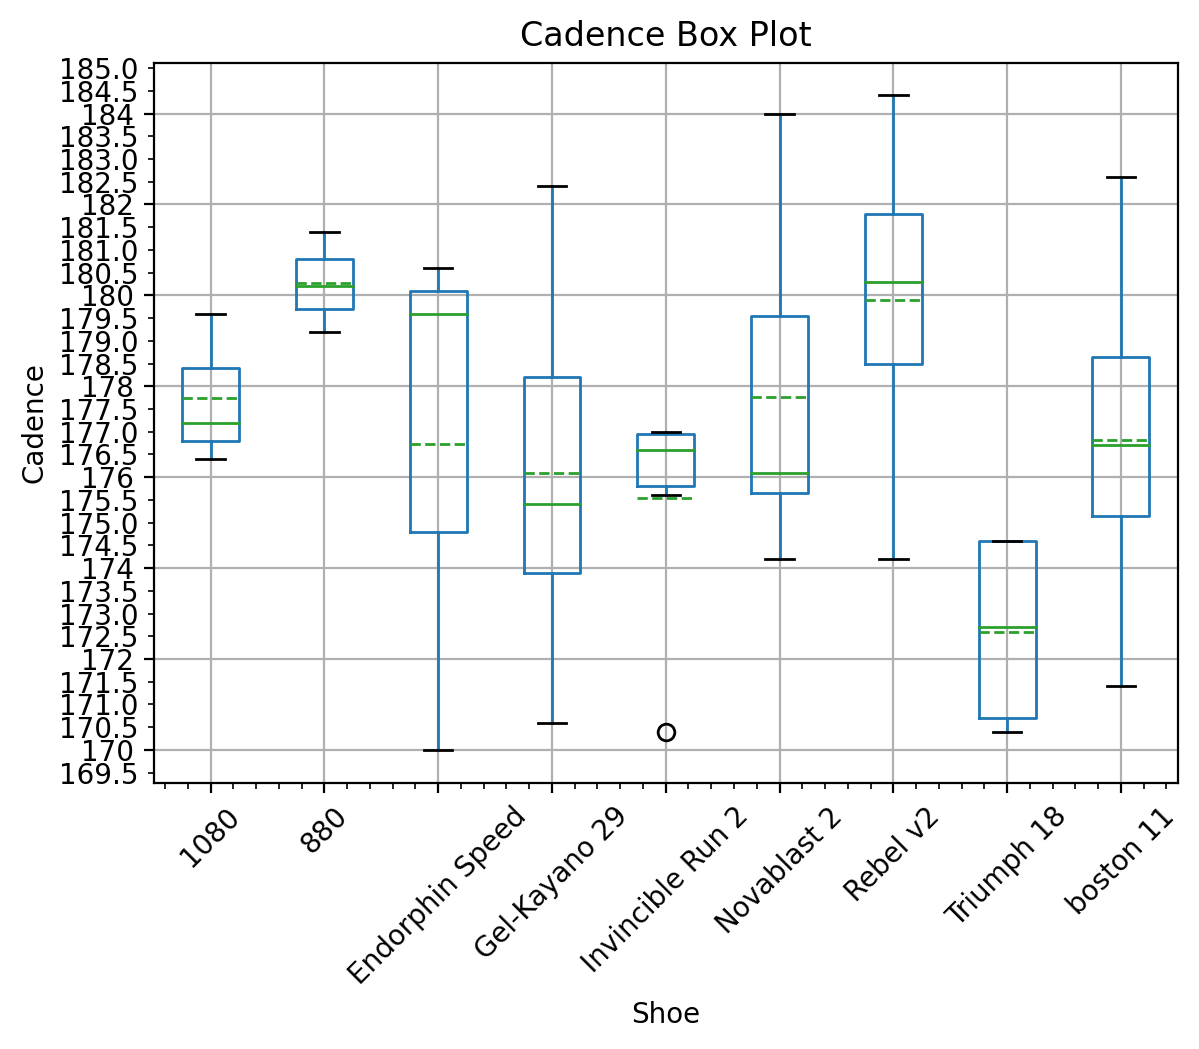
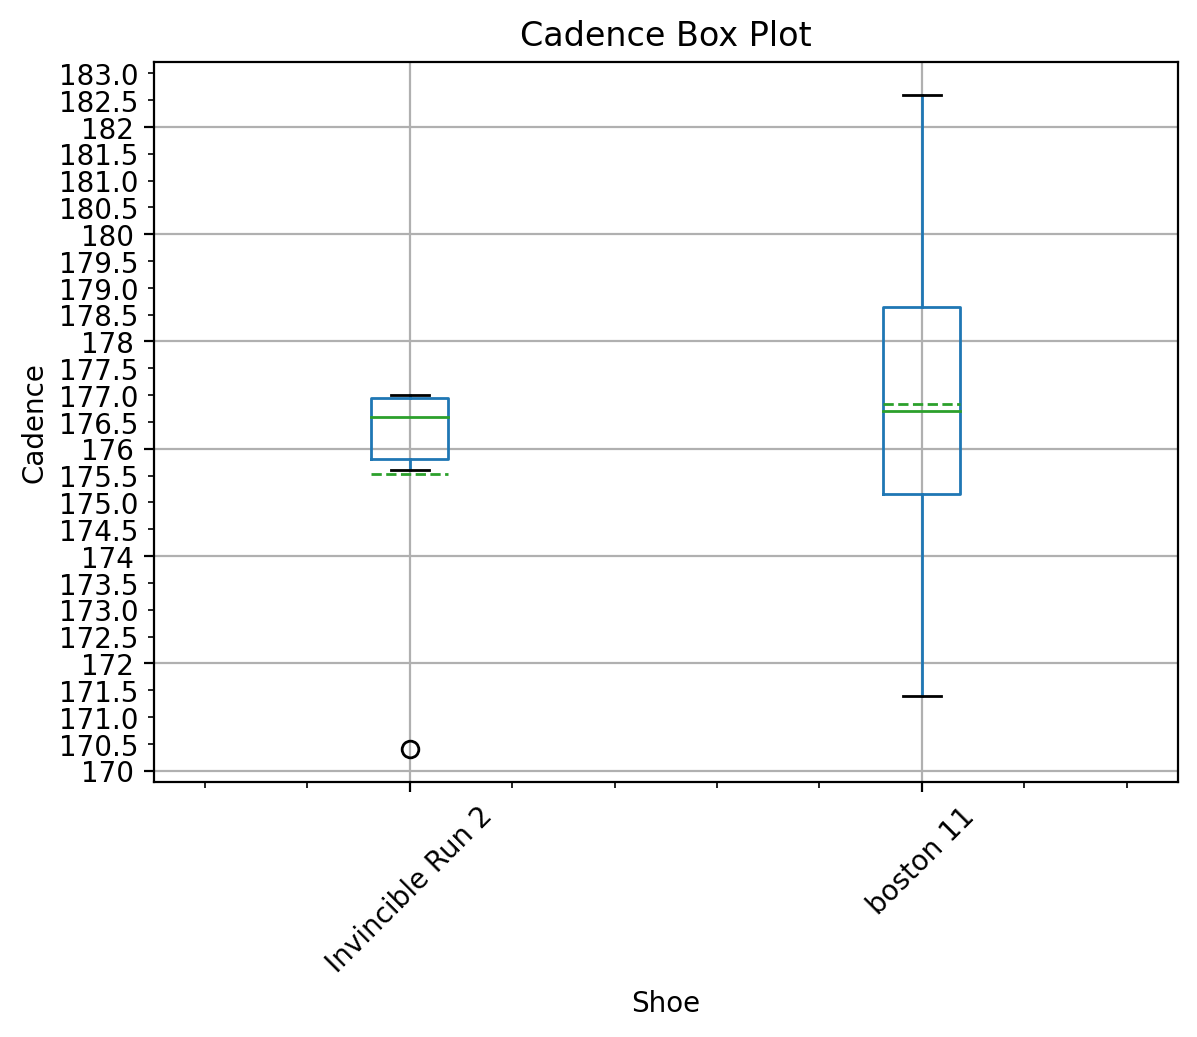
various changes

diff --git a/main.py b/main.py
@@ -92,9 +92,7 @@ for index, row in df2.iterrows():
     # replaced this with the .replace() method below. will remove later once I am sure what's more efficient.
     # df2.loc[df2['gear_id'] == original_id, 'gear_id'] = model['model_name']
     model_lookup[original_id] = model['model_name']
-    # Find shoes with less than 50 miles in distance and save them to a list.
-    if model['converted_distance'] < 50:
-        shoes_removed.append(model['model_name'])
+    # Add retired models to a list
     if model['retired']:
         shoes_removed.append(model['model_name'])
 
@@ -102,14 +100,21 @@ for index, row in df2.iterrows():
 df['gear_id'] = df['gear_id'].replace(model_lookup)
 df2['gear_id'] = df2['gear_id'].replace(model_lookup)
 
-# Drop the gear_ids in the distance_look up list from df.
+for index, row in df2.iterrows():
+    x = row['distance']
+    y = index
+    z = row['gear_id']
+    if x <= 50:
+        shoes_removed.append(z)
+
+# Drop the gear_ids in the shoes_removed list from df.
 for index, row in df.iterrows():
     x = row['gear_id']
     y = index
     if x in shoes_removed:
         df.drop(y, axis=0, inplace=True)
 
-# Drop the gear_ids in the distance_look up list from df2.
+# Drop the gear_ids in the shoes_removed list from df2.
 for index, row in df2.iterrows():
     x = row['gear_id']
     y = index

diff --git a/README.md b/README.md
@@ -38,7 +38,7 @@ curl --request POST \
 
 - Your refresh token will be in the response as `"refresh_token"`
 
-## How to run the program
+## How to add these values to your program
 Once you have your `refresh_token`, `client_secret` and `client_id` ready, you can either replace the values
 in the payload array with your values or add them to the `login.example.py` file and remove the "example" from the 
 file name. The login file is imported in the main program and its values are inserted into the payload
@@ -55,6 +55,13 @@ payload = {
 }
 ```
 ### Various notes and "gotchas"
+- The box plots can be read as followed: 
+  - Dotted Lines: Mean
+  - Solid Line: Median (Q2 quartile)
+  - Rectangle: Q1 - Q3 quartiles 
+  - Whiskers: Range
+- Mean (average) is a bit tricky in some places (such as speed) due to calculating "average of averages". This is why the additional data provided by the boxplot is useful, e.g., median and range.
+- "Average Pace" is calculated by the total moving time / total miles on a shoe. 
 - The program will filter out any shoes that have less than 50 miles on them or are "retired" in the Strava UI. You can modify the code here to change this behavior:
 ```
     if model['converted_distance'] < 50:
